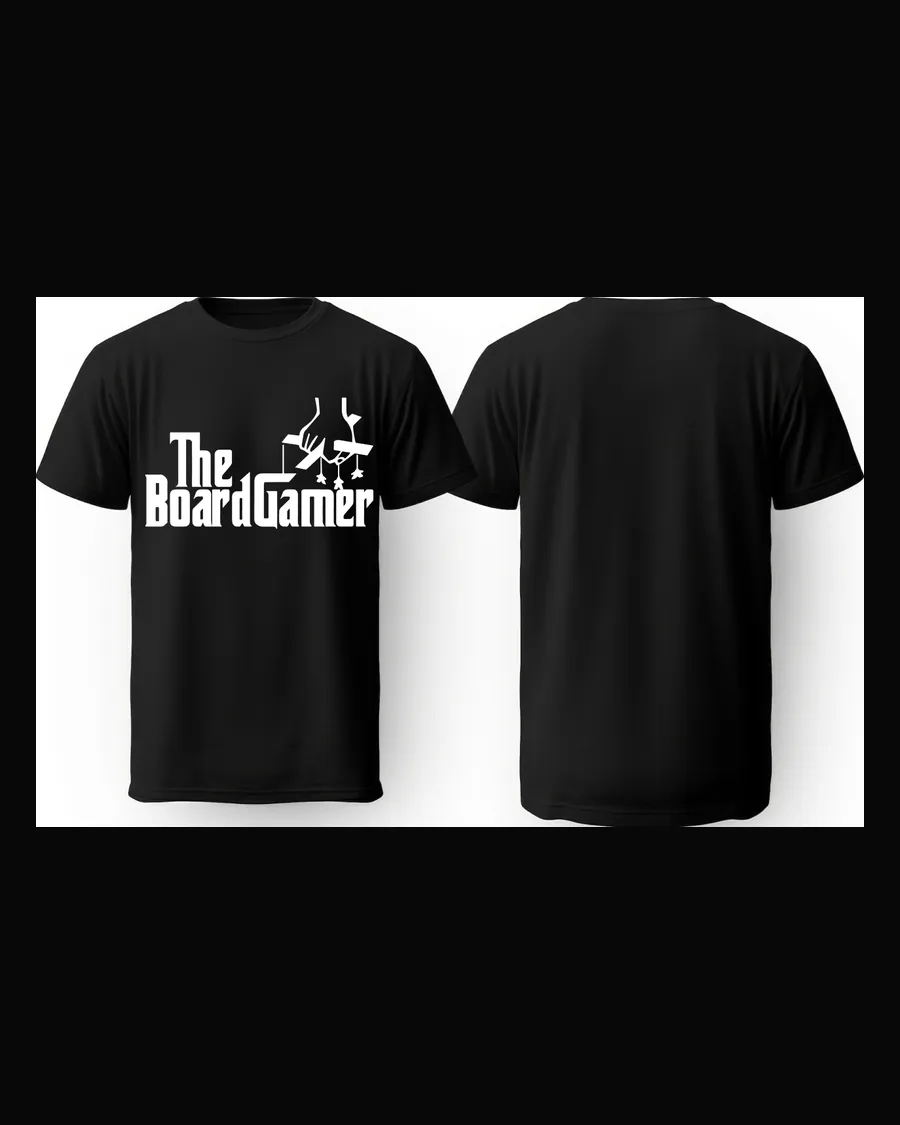
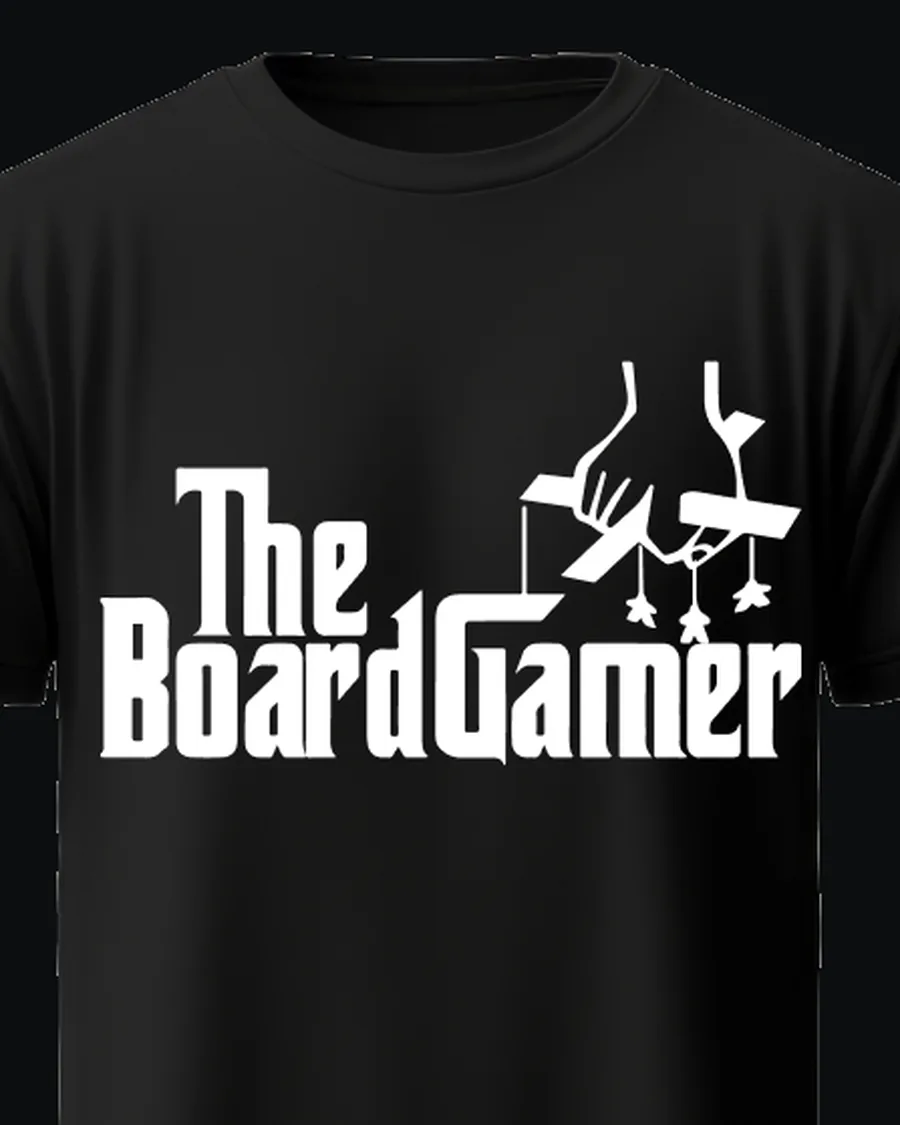
Show the front Boardgamer tee, rupee prices, and photo captions
Crop The Boardgamer to the front shirt, price every tee as ₹899, and note when the photo is black but the chosen colour is not.

diff --git a/index.html b/index.html
@@ -21,21 +21,21 @@
   </script>
   <!-- COPY: link preview. Crawlers read these tags, not content.js. -->
   <title>Roll &amp; Wear — Board-game tees</title>
-  <meta name="description" content="Original board-game tees from Roll &amp; Wear, made by gamers for gamers. Rs 899. Order on WhatsApp.">
+  <meta name="description" content="Original board-game tees from Roll &amp; Wear, made by gamers for gamers. ₹899. Order on WhatsApp.">
   <link rel="canonical" href="https://rollnwear.pages.dev/">
   <meta property="og:type" content="website">
   <meta property="og:site_name" content="Roll &amp; Wear">
   <meta property="og:locale" content="en_IN">
   <meta property="og:url" content="https://rollnwear.pages.dev/">
   <meta property="og:title" content="Roll &amp; Wear — Board-game tees">
-  <meta property="og:description" content="Original board-game tees, made by gamers for gamers. Rs 899. Order on WhatsApp.">
+  <meta property="og:description" content="Original board-game tees, made by gamers for gamers. ₹899. Order on WhatsApp.">
   <meta property="og:image" content="https://rollnwear.pages.dev/images/og.jpg">
   <meta property="og:image:width" content="1200">
   <meta property="og:image:height" content="630">
   <meta property="og:image:alt" content="Roll and Wear board-game tee">
   <meta name="twitter:card" content="summary_large_image">
   <meta name="twitter:title" content="Roll &amp; Wear — Board-game tees">
-  <meta name="twitter:description" content="Original board-game tees, made by gamers for gamers. Rs 899. Order on WhatsApp.">
+  <meta name="twitter:description" content="Original board-game tees, made by gamers for gamers. ₹899. Order on WhatsApp.">
   <meta name="twitter:image" content="https://rollnwear.pages.dev/images/og.jpg">
   <link rel="icon" href="images/logo-circle.png" type="image/png">
   <link rel="apple-touch-icon" href="images/logo-circle.png">
@@ -148,7 +148,7 @@
             <p class="each-price" id="each-price"></p>
             <div class="total-bar">
               <span id="total-label">Total</span>
-              <strong id="order-total">Rs —</strong>
+              <strong id="order-total">₹—</strong>
             </div>
             <button class="btn" type="submit" id="submit-label">Send order on WhatsApp</button>
             <p class="sent-note" id="sent-note" hidden></p>
@@ -174,7 +174,10 @@
     <div class="modal-panel" role="dialog" aria-modal="true" aria-labelledby="modal-title">
       <button class="modal-close" id="modal-close" type="button">Close</button>
       <div class="modal-layout">
-        <div class="modal-photo" id="modal-photo"></div>
+        <div class="modal-visual">
+          <div class="modal-photo" id="modal-photo"></div>
+          <p class="photo-note" id="modal-photo-note" hidden></p>
+        </div>
         <div class="modal-body">
           <h2 id="modal-title"></h2>
           <p class="modal-price" id="modal-price"></p>
@@ -222,7 +225,7 @@
             <p class="each-price" id="modal-each"></p>
             <div class="total-bar">
               <span id="modal-total-label">Total</span>
-              <strong id="modal-total">Rs —</strong>
+              <strong id="modal-total">₹—</strong>
             </div>
             <button class="btn" type="submit" id="modal-submit">Order on WhatsApp</button>
             <p class="sent-note" id="modal-sent" hidden></p>

diff --git a/app.js b/app.js
@@ -40,6 +40,22 @@
     return stockData ? Shop.formatInr(stockData.priceInr) : "";
   }
 
+  function photoCaption(item) {
+    if (!item || !item.colour || !item.photoColour) return "";
+    if (String(item.photoColour).toLowerCase() === String(item.colour).toLowerCase()) return "";
+    return Shop.fillTemplate(copy.photoNote || "Photo shows {shown}. Yours will be {colour}.", {
+      shown: String(item.photoColour).toLowerCase(),
+      colour: item.colour,
+    });
+  }
+
+  function setPhotoNote(el, item) {
+    if (!el) return;
+    var note = photoCaption(item);
+    el.hidden = !note;
+    el.textContent = note;
+  }
+
   function findGroup(index) {
     for (var i = 0; i < groups.length; i++) {
       for (var j = 0; j < groups[i].variants.length; j++) {
@@ -275,7 +291,7 @@
 
   function updateTotals() {
     var parsed = Shop.parseQuantity(state.quantity || $("quantity").value);
-    var shown = "Rs —";
+    var shown = "₹—";
     if (parsed.value >= 1 && parsed.value <= Shop.MAX_QTY && stockData) {
       shown = Shop.formatInr(parsed.value * stockData.priceInr);
     }
@@ -319,6 +335,7 @@
     if (Shop.isLastFew(item, stockData.lastFewAt) && !photo.querySelector(".last-few")) {
       photo.appendChild(badge());
     }
+    setPhotoNote($("modal-photo-note"), item);
     text("modal-title", item.design);
     text("modal-price", priceText());
     var blurb = copy.blurbs && copy.blurbs[item.design];
@@ -343,6 +360,7 @@
       var photo = open.querySelector(".photo");
       var next = photoBlock(item);
       photo.replaceWith(next);
+      setPhotoNote(card.querySelector(".photo-note"), item);
       card.querySelector(".size-line").textContent =
         (copy.sizesLabel || "Sizes") + "  " + Shop.availableSizes(item).join("   ");
       renderSwatches(card.querySelector(".swatches"), group, index, function (nextIndex) {
@@ -377,6 +395,10 @@
       open.type = "button";
       open.className = "card-open";
       open.appendChild(photoBlock(item));
+      var note = document.createElement("p");
+      note.className = "photo-note";
+      note.hidden = true;
+      open.appendChild(note);
       var name = document.createElement("h3");
       name.className = "card-name";
       name.textContent = group.design;

diff --git a/test/shop.test.js b/test/shop.test.js
@@ -63,8 +63,8 @@ lastFewExpected.forEach(function (row) {
 
 assert.deepStrictEqual(Shop.availableSizes({ sizes: { S: 0, "2XL": 2, M: 0, L: 1 } }), ["L", "2XL"]);
 assert.strictEqual(Shop.isForSale({ sizes: { M: 0 } }), false);
-assert.strictEqual(Shop.formatInr(899), "Rs 899");
-assert.strictEqual(Shop.formatInr(1798), "Rs 1,798");
+assert.strictEqual(Shop.formatInr(899), "₹899");
+assert.strictEqual(Shop.formatInr(1798), "₹1,798");
 assert.strictEqual(Shop.itemLabel(itemOf("Wingin' It", "Black")), "Wingin' It — Black");
 assert.strictEqual(Shop.itemLabel(itemOf("Less AP More VP", null)), "Less AP More VP");
 const groups = Shop.groupByDesign(stock.items);
@@ -128,7 +128,7 @@ assert.ok(!plainMessage.includes("Colour"), plainMessage);
 assert.strictEqual(plainResult.total, 899);
 assert.ok(message.includes("Size: L"));
 assert.ok(message.includes("Quantity: 2"));
-assert.ok(message.includes("Total: Rs 1,798"));
+assert.ok(message.includes("Total: ₹1,798"));
 assert.ok(message.includes("Pincode: 560001"));
 assert.ok(message.includes("Where I heard about you: Instagram post"));
 assert.ok(message.includes("pack it flat & keep the tag."));

diff --git a/styles.css b/styles.css
@@ -305,6 +305,18 @@ h1 {
   text-transform: uppercase;
 }
 
+.photo-note {
+  margin: 10px 0 0;
+  color: var(--muted);
+  font-size: 0.82rem;
+  line-height: 1.35;
+}
+
+.modal-visual .photo-note {
+  margin: 0;
+  padding: 12px 20px 0;
+}
+
 .card-name {
   margin: 14px 0 0;
   font-family: var(--sans);
@@ -605,10 +617,23 @@ textarea { min-height: 96px; resize: vertical; }
   .modal-layout {
     display: contents;
   }
-  .modal-photo {
-    height: 100%;
+  .modal-visual {
+    display: flex;
+    flex-direction: column;
+    min-height: 0;
     max-height: calc(100vh - 56px);
+  }
+  .modal-photo {
+    flex: 1 1 auto;
+    height: auto;
+    min-height: 0;
+    max-height: none;
     aspect-ratio: auto;
+  }
+  .modal-visual .photo-note {
+    margin: 0;
+    padding: 12px 16px 14px;
+    background: var(--paper);
   }
   .modal-body {
     overflow: auto;

diff --git a/content.js b/content.js
@@ -10,7 +10,7 @@
    Order message placeholders:
      {name} {design} {colour} {size} {quantity}
      {total} {city} {pincode} {source} {note}
-   {price} is the tee price from stock.json, like "Rs 899".
+   {price} is the tee price from stock.json, like "₹899".
 
    If a tee has no colour in stock.json, the line that contains
    {colour} is left out of the WhatsApp message. Keep that line
@@ -108,6 +108,7 @@ window.SITE_COPY = {
     "Other",
   ],
   eachLabel: "{price} each",
+  photoNote: "Photo shows {shown}. Yours will be {colour}.",
   totalLabel: "Total",
   submitLabel: "Send order on WhatsApp",
   sentNote: "WhatsApp should open with your order filled in. Tap send there.",

diff --git a/shop.js b/shop.js
@@ -56,9 +56,9 @@
 
   function formatInr(amount) {
     var n = Math.round(Number(amount));
-    if (!Number.isFinite(n)) return "Rs —";
+    if (!Number.isFinite(n)) return "₹—";
     var body = String(Math.abs(n)).replace(/\B(?=(\d{3})+(?!\d))/g, ",");
-    return (n < 0 ? "-Rs " : "Rs ") + body;
+    return (n < 0 ? "-₹" : "₹") + body;
   }
 
   function parseQuantity(value) {

diff --git a/images/README.md b/images/README.md
@@ -6,7 +6,7 @@ Photos are 4:5, cropped to the chest print, and saved as WebP under 150KB. They 
 
 | Design | Colour on the swatch | File | Pictured shirt | Hextasy page |
 |---|---|---|---|---|
-| The Boardgamer | (not set) | `images/the-boardgamer.webp` | flat graphic | https://hextasy.in/product/the-board-gamer-2 |
+| The Boardgamer | (not set) | `images/the-boardgamer.webp` | front tee only, on black | https://hextasy.in/product/the-board-gamer-2 |
 | Board Game Components | Black | `images/board-game-components--black.webp` | black | https://hextasy.in/product/game-components-2 |
 | Board Game Components | White | `images/board-game-components--black.webp` | black (no white photo) | https://hextasy.in/product/game-components-2 |
 | Power to the Meeple | Black | `images/power-to-the-meeple--black.webp` | black | https://hextasy.in/product/power-to-the-meeple-2 |
